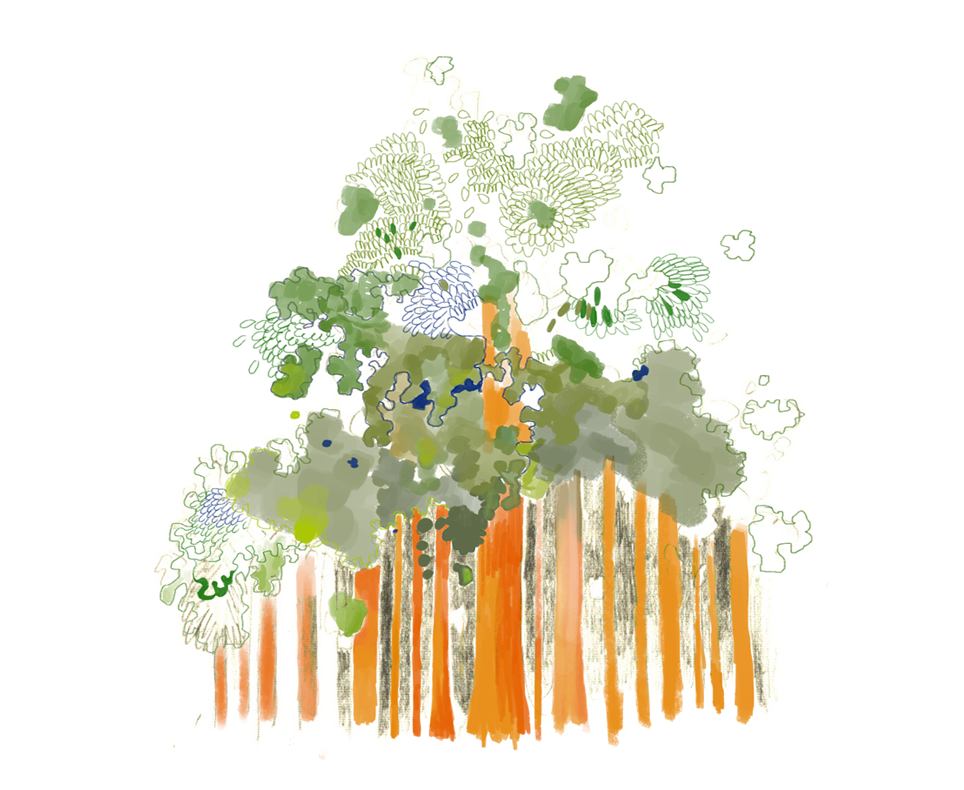
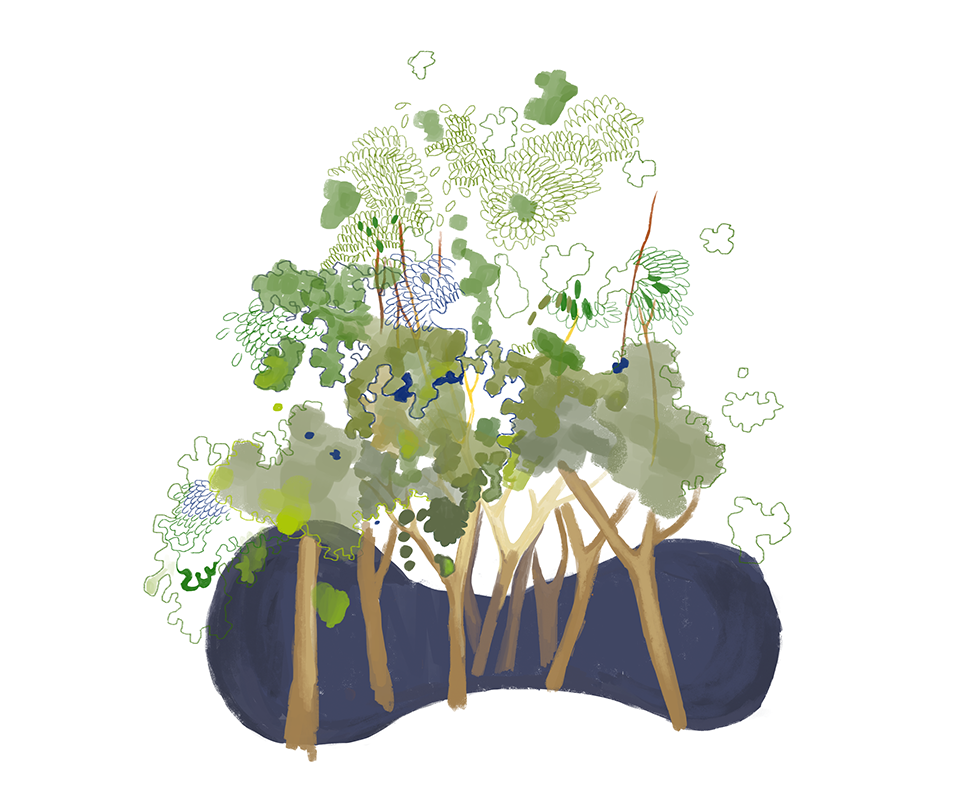
je sais pas quoi écrire

diff --git a/main.py b/main.py
@@ -1,4 +1,5 @@
 import gs
+import gs.plus.geometry as geometry
 import gs.plus.render as render
 import gs.plus.input as input
 import gs.plus.audio as audio
@@ -6,29 +7,54 @@ import gs.plus.clock as clock
 from gs.plus import *
 import random
 
+
 SCREEN_W = 1920
 SCREEN_H = 1080
 
 dt_text_scroll = 0.0
 
 phases = [
-        [{'img': '@data/montagne.png', 'phrase': 'sous la neige'},
+        [[{'img': '@data/montagne.png', 'phrase': 'sous la neige'},
          {'img': '@data/foret.png', 'phrase': "sous les chênes"},
-         {'img': "@data/plage.png", 'phrase': ' sous les cocos '}
+         {'img': "@data/mer.png", 'phrase': ' sous les cocos '}]
            ],
-        [   {'img': '@data/chat.jpg', 'phrase': 'chat'},
-            {'img': '@data/phoque.jpg', 'phrase': 'phoque'},
-            {'img': '@data/phoque2.jpg', 'phrase': 'phoque'},
-            {'img': '@data/phoque.jpg', 'phrase': 'phoque'},
-            {'img': '@data/phoque2.jpg', 'phrase': 'phoque'},
-            {'img': '@data/phoque.jpg', 'phrase': 'phoque'},
-            {'img': '@data/phoque2.jpg', 'phrase': 'phoque'},
-            {'img': '@data/phoque.jpg', 'phrase': 'phoque'},
-            {'img': '@data/phoque2.jpg', 'phrase': 'phoque'}],
+        [  [ {'img': '@data/montagne_plus_groupedanimaux.png', 'phrase': 'chat'},
+            {'img': '@data/montagne_plus_halucination.png', 'phrase': 'phoque'},
+            {'img': '@data/montagne_plus_groupedhumains.png', 'phrase': 'phoque'}],
+            [{'img': '@data/foret_plus_groupedanimaux.png', 'phrase': 'phoque'},
+            {'img': '@data/foret_plus_hallucination.png', 'phrase': 'phoque'},
+            {'img': '@data/foret_plus_groupedhumains.png', 'phrase': 'phoque'}],
+            [{'img': '@data/mer_plus_groupedanimaux.png', 'phrase': 'phoque'},
+            {'img': '@data/mer_plus_hallucination.png', 'phrase': 'phoque'},
+            {'img': '@data/mer_plus_groupedhumains.png', 'phrase': 'phoque'}]],
+        [[{'img': '@data/soleil.jpg', 'phrase': 'ce beau soleil'},
+         {'img': '@data/Pluie.jpg', 'phrase': 'celle belle averse'},
+         {'img': '@data/arcEnCiel.jpg', 'phrase': 'ce beau arc-en-ciel'}],
+         [{'img': '@data/soleil.jpg', 'phrase': 'ce beau soleil'},
+         {'img': '@data/Pluie.jpg', 'phrase': 'celle belle averse'},
+         {'img': '@data/arcEnCiel.jpg', 'phrase': 'ce beau arc-en-ciel'}],
+         [{'img': '@data/soleil.jpg', 'phrase': 'ce beau soleil'},
+         {'img': '@data/Pluie.jpg', 'phrase': 'celle belle averse'},
+         {'img': '@data/arcEnCiel.jpg', 'phrase': 'ce beau arc-en-ciel'}],
+         [{'img': '@data/soleil.jpg', 'phrase': 'ce beau soleil'},
+         {'img': '@data/Pluie.jpg', 'phrase': 'celle belle averse'},
+         {'img': '@data/arcEnCiel.jpg', 'phrase': 'ce beau arc-en-ciel'}],
+         [{'img': '@data/soleil.jpg', 'phrase': 'ce beau soleil'},
+         {'img': '@data/Pluie.jpg', 'phrase': 'celle belle averse'},
+         {'img': '@data/arcEnCiel.jpg', 'phrase': 'ce beau arc-en-ciel'}],
+         [{'img': '@data/soleil.jpg', 'phrase': 'ce beau soleil'},
+         {'img': '@data/Pluie.jpg', 'phrase': 'celle belle averse'},
+         {'img': '@data/arcEnCiel.jpg', 'phrase': 'ce beau arc-en-ciel'}],
         [{'img': '@data/soleil.jpg', 'phrase': 'ce beau soleil'},
          {'img': '@data/Pluie.jpg', 'phrase': 'celle belle averse'},
-         {'img': '@data/arcEnCiel.jpg', 'phrase': 'ce beau arc-en-ciel'}]
-    ]
+         {'img': '@data/arcEnCiel.jpg', 'phrase': 'ce beau arc-en-ciel'}],
+        [{'img': '@data/soleil.jpg', 'phrase': 'ce beau soleil'},
+         {'img': '@data/Pluie.jpg', 'phrase': 'celle belle averse'},
+         {'img': '@data/arcEnCiel.jpg', 'phrase': 'ce beau arc-en-ciel'}],
+        [{'img': '@data/soleil.jpg', 'phrase': 'ce beau soleil'},
+         {'img': '@data/Pluie.jpg', 'phrase': 'celle belle averse'},
+         {'img': '@data/arcEnCiel.jpg', 'phrase': 'ce beau arc-en-ciel'}],
+    ]]
 
 gs.LoadPlugins(gs.get_default_plugins_path())
 render.init(SCREEN_W, SCREEN_H, "pkg.core")
@@ -48,8 +74,11 @@ def joue_sfx_phase():
     audio.get_mixer().Stream("@data/sfx_phase_" + str(random.randint(0,4)) + ".wav")
 
 def main ():
+    global cube, angle
     musique()
     intro()
+    angle = 0
+    cube = render.create_geometry(geometry.create_cone(subdiv_x=4))
     gourou = selection()
     generation(gourou)
     audio.get_mixer().Stop(sound)
@@ -90,15 +119,15 @@ def intro():
         render.flip()
 
 def getImgParPha(phases):
-    return len(phases[0])
+    return len(phases[0] [0])
 
 
-def getImg(phases, phase, phrase_courante):
-    return phases[phase][phrase_courante]['img']
+def getImg(phases, phase,jeuCarte, phrase_courante):
+    return phases[phase] [jeuCarte] [phrase_courante]['img']
 
 
-def getTxt(phases, phase, phrase_courante):
-    return phases[phase][phrase_courante]['phrase']
+def getTxt(phases, phase,jeuCarte, phrase_courante):
+    return phases[phase] [jeuCarte] [phrase_courante]['phrase']
 
 
 def selection():
@@ -112,7 +141,7 @@ def selection():
 
         joue_sfx_phase()
         entrer = False
-
+        angle = 0
 
         while not entrer:
             render.clear(gs.Color.White)
@@ -129,51 +158,60 @@ def selection():
                 amplitude = 1
 
             if indexDecor >= 0:
-                print(indexDecor)
+                # render.geometry2d(100, 100, cube, angle, angle * 2, 0, 100)
                 amplitude *= 0.95
 
-                yOffSet = [0,0,0]*3**phase
+            yOffSet = [0,0,0]*3**phase
+
+            print(indexDecor)
+            render.set_blend_mode2d(1)
+            afficheImageNot(430, 165 + 25,  1, '@data/ornement_gauche.png')
+            afficheImageNot(1090, 165 + 25,  1, '@data/ornement_droite.png')
+            render.set_blend_mode2d(0)
+            if phase == 0:
                 yOffSet [indexDecor] = random.randint(-5,5)
-
+                afficheImage((SCREEN_W-1050)/2, 285+random.randint(-25,25)*amplitude, phase, 1.0, indexDecor, 0)
+                afficheTexte(800, 220 + 25, 'OÙ VEUX TU TE RETIRER ?', size=0.85)
                 render.set_blend_mode2d(1)
-                afficheImageNot(430, 165 + 25,  1, '@data/ornement_gauche.png')
-                afficheImageNot(1090, 165 + 25,  1, '@data/ornement_droite.png')
+                afficheImageNot(600, 50,  1, '@data/choix_paysage.png')
                 render.set_blend_mode2d(0)
-                if phase == 0:
-                    afficheImage((SCREEN_W-1050)/2, 285+random.randint(-25,25)*amplitude, phase, 1.0, indexDecor)
-                    afficheTexte(800, 220 + 25, 'OÙ VEUX TU TE RETIRER ?', size=0.85)
-                    render.set_blend_mode2d(1)
-                    afficheImageNot(600, 50,  1, '@data/choix_paysage.png')
-                    render.set_blend_mode2d(0)
-                    afficheTexte(600, 25+yOffSet[0], getTxt(phases, phase, 0))
-                    afficheTexte(830, 25+yOffSet[1], getTxt(phases, phase, 1))
-                    afficheTexte(1100, 25+yOffSet[2], getTxt(phases, phase, 2))
+                afficheTexte(600, 25+yOffSet[0], getTxt(phases, phase,0, 0))
+                afficheTexte(830, 25+yOffSet[1], getTxt(phases, phase,0, 1))
+                afficheTexte(1100, 25+yOffSet[2], getTxt(phases, phase,0, 2))
 
-                elif phase == 1:
-                    afficheImage((SCREEN_W-1050)/2, 285+random.randint(-25,25)*amplitude, phase, 1.0, (indexDecor+indexImg[phase-1])*3)
-                    afficheTexte(750, 220 + 25, 'CHOISIS UNE AMBIANCE MYSTIQUE', size=0.85)
-                    render.set_blend_mode2d(1)
-                    afficheImageNot(600, 50,  1, '@data/choix_ambiance.png')
-                    render.set_blend_mode2d(0)
-                    print ((indexImg[phase-1]+1)*3)
-                    afficheTexte(670, 25+yOffSet[0+(indexImg[phase-1])*3], getTxt(phases, phase, 0+(indexImg[phase-1])*3))
-                    afficheTexte(900, 25+yOffSet[1+(indexImg[phase-1])*3], getTxt(phases, phase, 1+(indexImg[phase-1])*3))
-                    afficheTexte(1180, 25+yOffSet[2+(indexImg[phase-1])*3], getTxt(phases, phase, 2+(indexImg[phase-1])*3))
+            elif phase == 1:
+                yOffSet [indexDecor*indexImg[phase-1]] = random.randint(-5,5)
+                afficheImage((SCREEN_W-1050)/2, 285+random.randint(-25,25)*amplitude, phase, 1.0, indexDecor,indexImg[phase-1] )
+                afficheTexte(750, 220 + 25, 'CHOISIS UNE AMBIANCE MYSTIQUE', size=0.85)
+                render.set_blend_mode2d(1)
+                afficheImageNot(600, 50,  1, '@data/choix_ambiance.png')
+                render.set_blend_mode2d(0)
+                print(indexImg)
+                afficheTexte(670, 25+yOffSet[0+(indexImg[phase-1])*3], getTxt(phases, phase, indexImg[phase-1], indexDecor))
+                afficheTexte(900, 25+yOffSet[1+(indexImg[phase-1])*3], getTxt(phases, phase, indexImg[phase-1],indexDecor))
+                afficheTexte(1180, 25+yOffSet[2+(indexImg[phase-1])*3], getTxt(phases, phase, indexImg[phase-1], indexDecor))
 
-                else:
-                    afficheImage((SCREEN_W-1050)/2, 285+random.randint(-25,25)*amplitude, phase, 1.0, indexDecor)
-                    afficheTexte(700, 220 + 25, 'CHOISIS UN TRUC A OBSERVER', size=0.85)
-                    render.set_blend_mode2d(1)
-                    afficheImageNot(600, 50,  1, '@data/choix_paysage.png')
-                    render.set_blend_mode2d(0)
-
+            else:
+                yOffSet [indexDecor*indexImg[phase-1]] = random.randint(-5,5)
+                afficheImage((SCREEN_W-1050)/2, 285+random.randint(-25,25)*amplitude, phase, 1.0, indexDecor, indexImg[phase-1])
+                afficheTexte(700, 220 + 25, 'CHOISIS UN TRUC A OBSERVER', size=0.85)
+                render.set_blend_mode2d(1)
+                afficheImageNot(600, 50,  1, '@data/choix_paysage.png')
+                render.set_blend_mode2d(0)
+                afficheTexte(670, 25+yOffSet[0+(indexImg[phase-1])*3], getTxt(phases, phase, indexImg[phase-1], indexDecor))
+                afficheTexte(900, 25+yOffSet[1+(indexImg[phase-1])*3], getTxt(phases, phase, indexImg[phase-1],indexDecor))
+                afficheTexte(1180, 25+yOffSet[2+(indexImg[phase-1])*3], getTxt(phases, phase, indexImg[phase-1], indexDecor))
+            angle += 0.01
             if input.key_press(gs.InputDevice.KeyEnter):
 
                 entrer = True
                 indexEntrer = indexDecor
-                Gourou.append(getTxt(phases, phase, indexDecor))
-            if entrer:
+                if phase ==0:
+                    Gourou.append(getTxt(phases, phase, 0, indexDecor))
+                else:
+                    Gourou.append(getTxt(phases, phase, indexImg[phase-1], indexDecor))
 
+            if entrer:
                 indexImg[phase] = indexEntrer
 
 
@@ -206,8 +244,8 @@ def afficheTexte(x, y, texte, transparence = 1.0, size = 1.0):
             x += 15 * size
 
 
-def afficheImage(x, y ,phase, echelle, phraseCourante):
-    render.image2d(x,y,echelle,getImg(phases, phase, phraseCourante) )
+def afficheImage(x, y ,phase, echelle, phraseCourante, jeuCarte):
+    render.image2d(x,y,echelle,getImg(phases, phase,jeuCarte, phraseCourante) )
 
 def afficheImageNot(x, y, echelle, lien):
     render.image2d(x,y,echelle,lien )
@@ -226,9 +264,9 @@ def generation(gourou):
     while not input.key_press(gs.InputDevice.KeyEnter):
         render.clear(gs.Color.White)
         # dessine_fond_qui_scroll()
-        afficheTexte(1000, 500, 'Il était un fois dans'+str(getTxt(phases,0,indexImg[0] )))
-        afficheTexte(1050, 400, 'Un petit '+str(getTxt(phases,1,indexImg[1])))
-        afficheTexte(1100, 300, 'Qui regarda '+str(getTxt(phases,2,indexImg[2] )))
+        afficheTexte(1000, 500, 'Il était un fois dans'+str(getTxt(phases,0,0 ,indexImg[0])))
+        afficheTexte(1050, 400, 'Un petit '+str(getTxt(phases,1,indexImg[0],indexImg[1])))
+        afficheTexte(1100, 300, 'Qui regarda '+str(getTxt(phases,2,indexImg[1], indexImg[2] )))
         render.image2d(200,250,0.7,'@data/Guru.jpg' )
         render.flip()
     render.flip()
